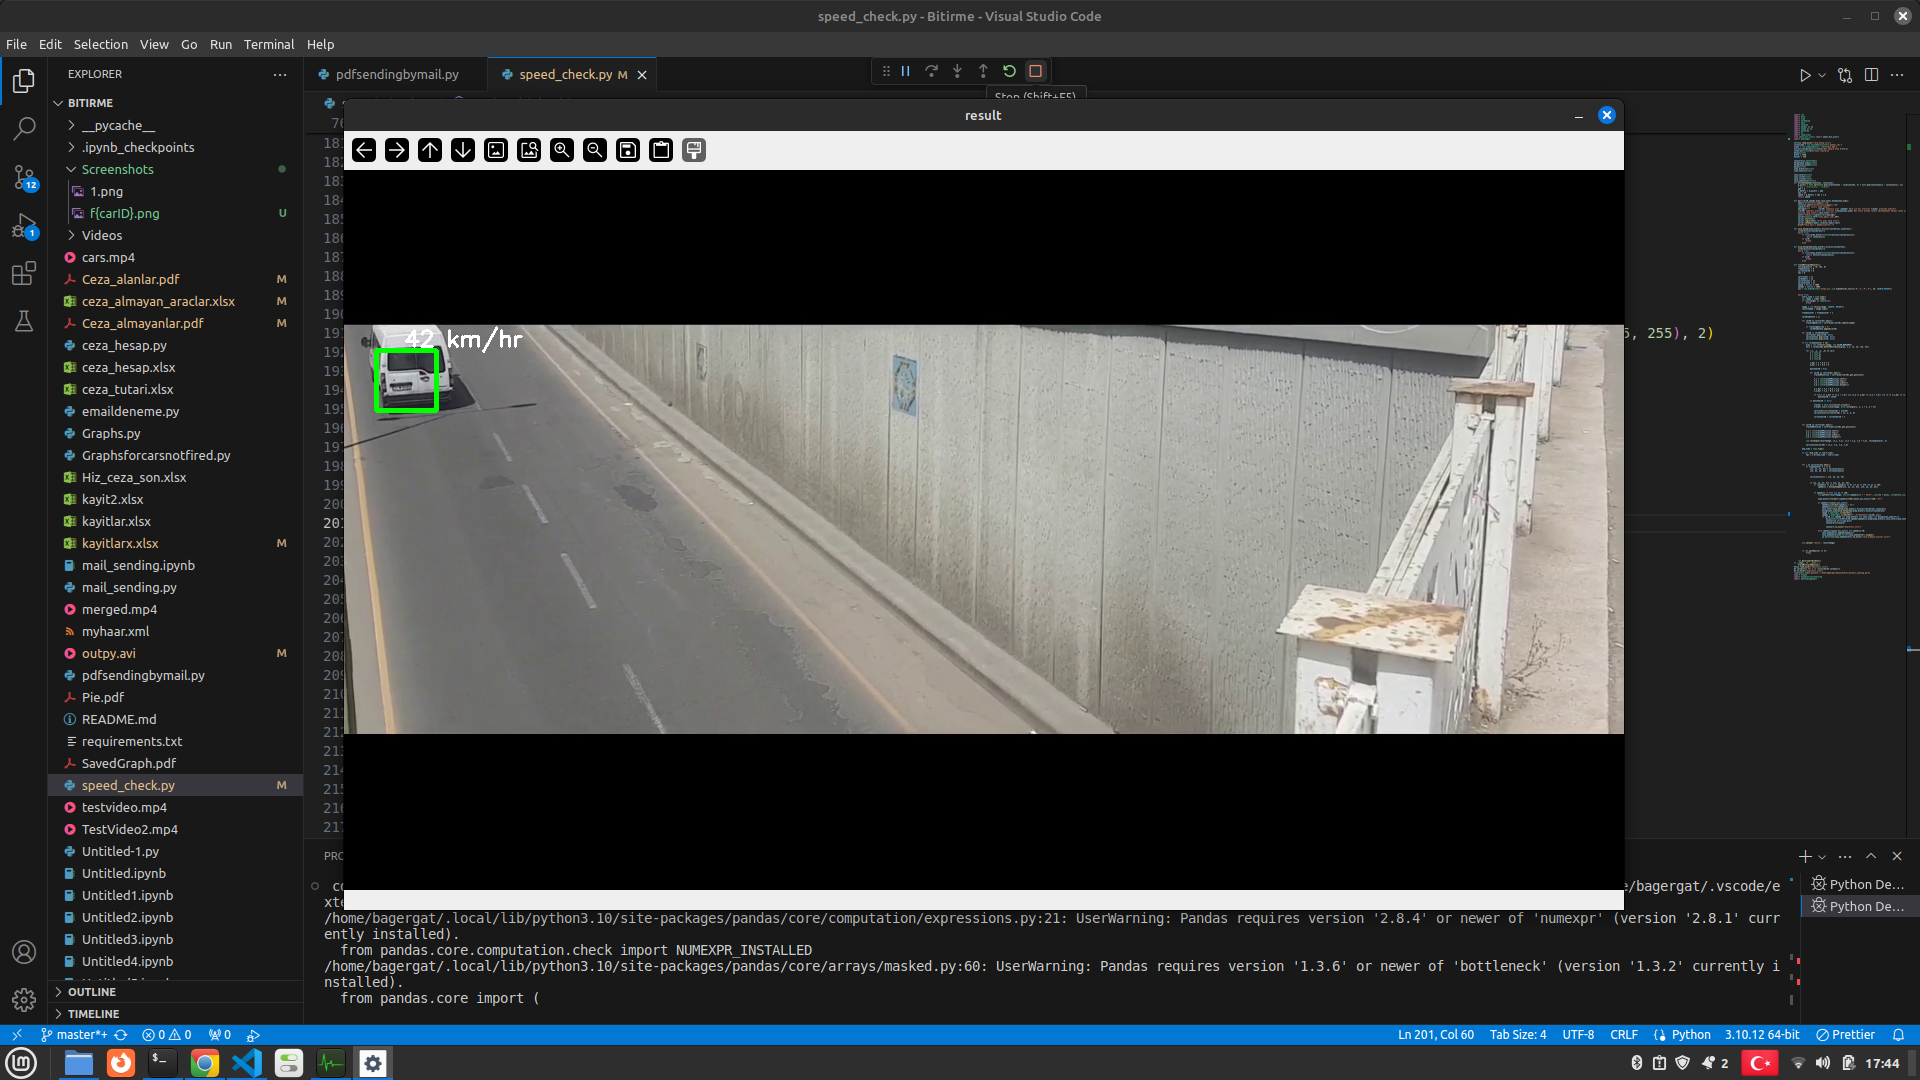
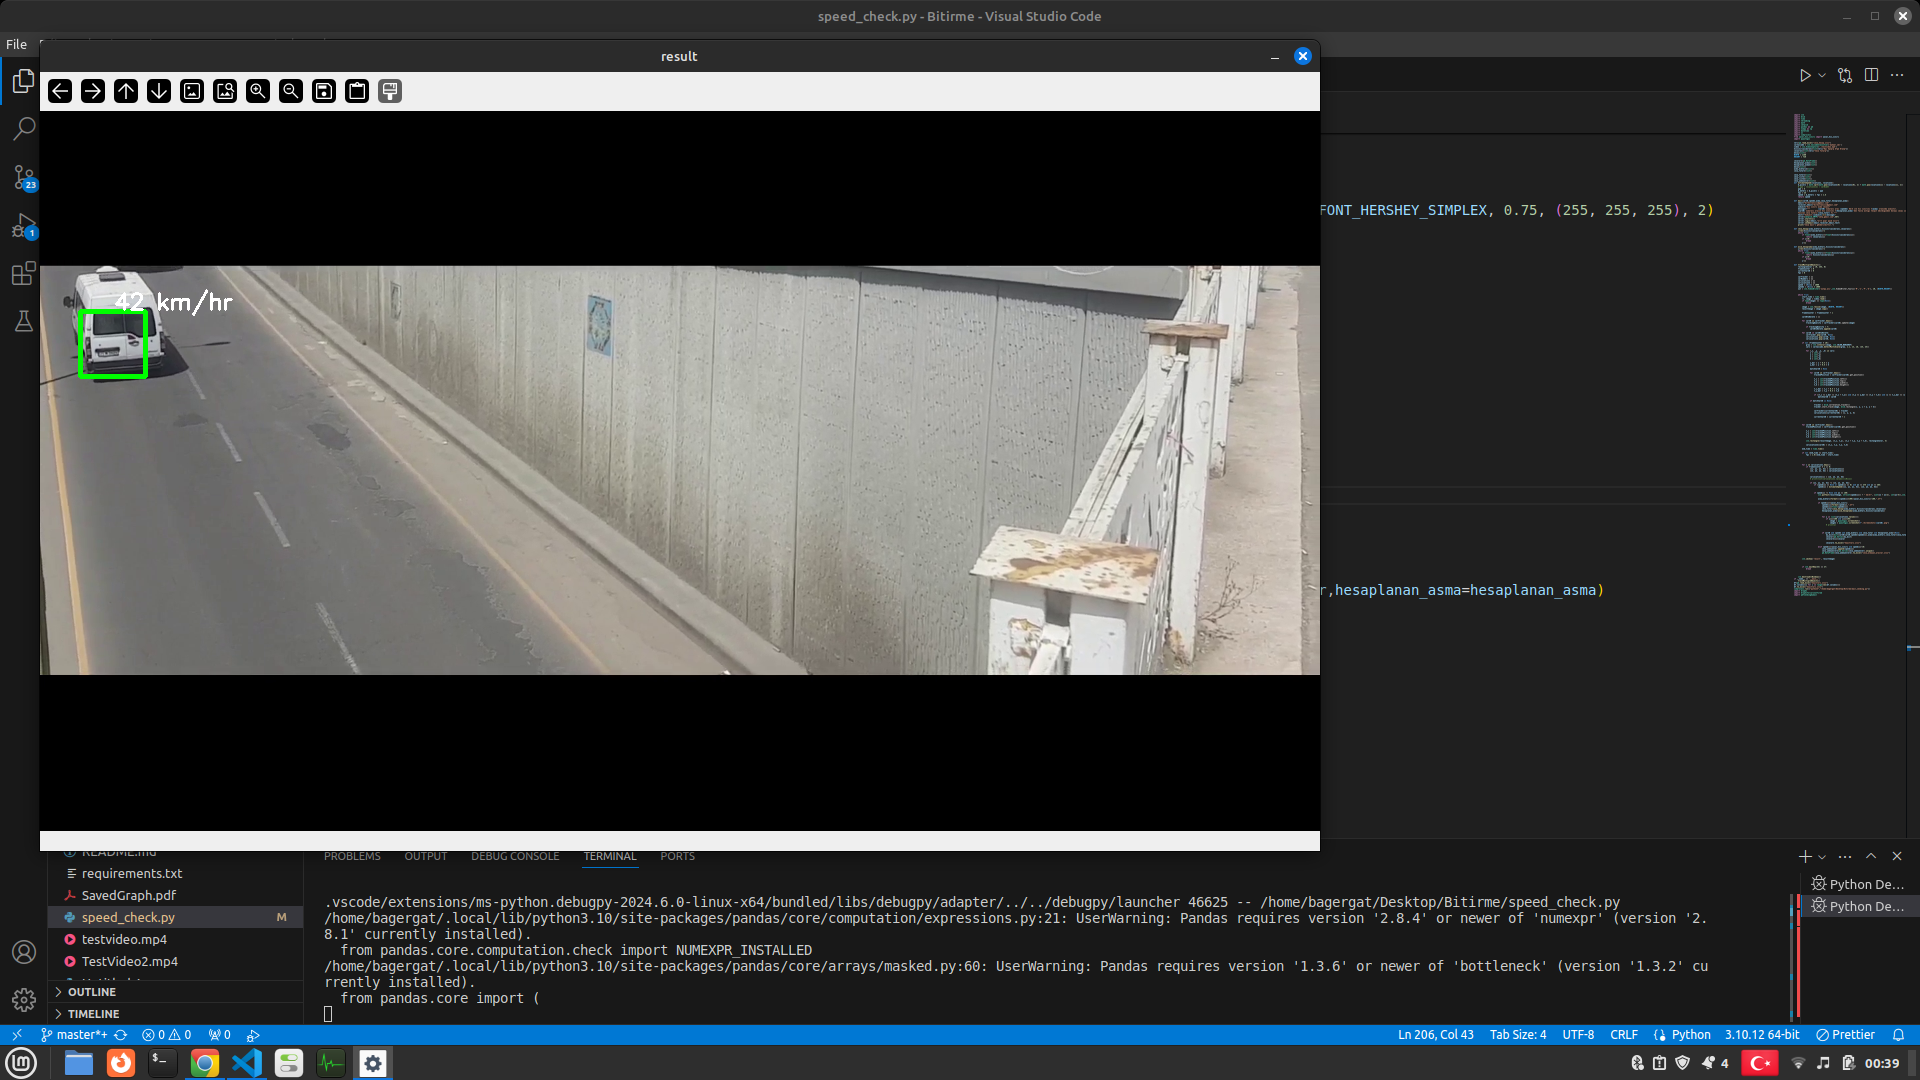
screenshots are imported to the mail function as well

diff --git a/mail_sending.py b/mail_sending.py
@@ -1,52 +1,76 @@
-# %%
-import pandas as pd 
-import numpy as np
+# import pandas as pd 
+# import numpy as np
+# import smtplib
+
+# veri=pd.read_excel("kayitlarx.xlsx")
+# veri.pop("Unnamed: 0")
+# veri.set_index(veri[0],inplace=True)
+# veri.pop(0)
+
+# def mail(carID,speed2,asma,ceza_tutar,hesaplanan_asma):
+#     email="birkullanicix@gmail.com"
+#     receiver_email="birkullanicix@gmail.com"
+#     subject="Hiz siniri asma cezasi"
+#     message=f"""        {carID} numarali arac {speed2} Km/h ile hiz sinirini %{asma} oraninda asmistir.
+# 	{carID} numarali aracin hiz sinirini %{hesaplanan_asma}'den fazla astigi tespit edildiginden dolayi cezai islem uygulanmistir.
+# 	Yazilan ceza tutari:{ceza_tutar} TL."""
+#     text=f"Subject:{subject}\n\n{message}"
+#     server=smtplib.SMTP("smtp.gmail.com",587)
+#     server.starttls()
+#     server.login(email,"wrrt pxqr pyib nzcs")
+#     server.sendmail(email,receiver_email,text)
+#     print("Ceza mail'i gönderilmiştir.")
+
+
+# for i in range(1,len(veri.columns)):
+#     carID=veri[i][0]
+#     speed2=veri[i][1]
+#     asma=veri[i][2]
+#     ceza_tutar=veri[i][3]
+#     hesaplanan_asma=veri[i][4]
+#     mail(carID,speed2,asma,ceza_tutar,hesaplanan_asma)
+
+
 import smtplib
-# %%
+from email.mime.multipart import MIMEMultipart
+from email.mime.text import MIMEText
+from email.mime.image import MIMEImage
+import pandas as pd 
+
 veri=pd.read_excel("kayitlarx.xlsx")
 veri.pop("Unnamed: 0")
-veri.set_index(veri[0],inplace=True)
+veri.set_index(veri[0], inplace=True)
 veri.pop(0)
-# veri.pop("Unnamed: 0")
-# veri.columns=["Degerler"]
-# veri=pd.Series(veri["Degerler"]).unique()
 
-# %%
-def mail(carID,speed2,asma,ceza_tutar,hesaplanan_asma):
-    email="birkullanicix@gmail.com"
-    receiver_email="birkullanicix@gmail.com"
-    subject="Hiz siniri asma cezasi"
-    message=f"""        {carID} numarali arac {speed2} Km/h ile hiz sinirini %{asma} oraninda asmistir.
-	{carID} numarali aracin hiz sinirini %{hesaplanan_asma}'den fazla astigi tespit edildiginden dolayi cezai islem uygulanmistir.
-	Yazilan ceza tutari:{ceza_tutar} TL."""
-    text=f"Subject:{subject}\n\n{message}"
-    server=smtplib.SMTP("smtp.gmail.com",587)
+def mail(carID, speed2, asma, ceza_tutar, hesaplanan_asma):
+    msg = MIMEMultipart()
+    email = "birkullanicix@gmail.com"
+    receiver_email = "birkullanicix@gmail.com"
+    subject = "Hiz siniri asma cezasi"
+    
+    message = f"""{carID} numarali arac {speed2} Km/h ile hiz sinirini %{asma} oraninda asmistir.
+    {carID} numarali aracin hiz sinirini %{hesaplanan_asma}'den fazla astigi tespit edildiginden dolayi cezai islem uygulanmistir.
+    Yazilan ceza tutari:{ceza_tutar} TL."""
+    
+    msg['Subject'] = subject
+    msg.attach(MIMEText(message, 'plain'))
+    
+    path = f"./Screenshots/{carID}.png"
+    with open(path, 'rb') as fp:
+        img = MIMEImage(fp.read())
+        img.add_header('Content-Disposition', 'attachment', filename=f"{carID}.png")
+        msg.attach(img)
+
+    server = smtplib.SMTP("smtp.gmail.com", 587)
     server.starttls()
-    server.login(email,"wrrt pxqr pyib nzcs")
-    server.sendmail(email,receiver_email,text)
+    server.login(email, "wrrt pxqr pyib nzcs")
+    server.sendmail(email, receiver_email, msg.as_string())
     print("Ceza mail'i gönderilmiştir.")
 
-
-# for i in range(len(veri.columns)):
-#     mail(i[0],i[1],i[2],i[3],i[4])
-
-for i in range(1,len(veri.columns)):
-    carID=veri[i][0]
-    speed2=veri[i][1]
-    asma=veri[i][2]
-    ceza_tutar=veri[i][3]
-    hesaplanan_asma=veri[i][4]
-    mail(carID,speed2,asma,ceza_tutar,hesaplanan_asma)
-
-
-# %%
-# for i in veri:
-#     vi=i.split()
-#     j.append(vi)
-# for i in j:
-#     i[0]=i[0].replace("[","")
-#     i[-1]=i[-1].replace("]","")
-#     mail(i[0],i[1],i[2],i[3],i[4])
-
-# for i in range(len(veri.columns)):
-    
+for i in range(1, len(veri.columns)):
+    carID = int(veri[i][0])
+    speed2 = veri[i][1]
+    asma = veri[i][2]
+    ceza_tutar = veri[i][3]
+    hesaplanan_asma = veri[i][4]
+    mail(carID, speed2, asma, ceza_tutar, hesaplanan_asma)

diff --git a/emaildeneme.py b/emaildeneme.py
@@ -1,16 +1,43 @@
-def emaildeneme(carID,speed,asma):
-    # carID=self.carID
-    # speed=self.speed
-    # asma=self.asma
-    import smtplib
+import smtplib
+from email.mime.multipart import MIMEMultipart
+from email.mime.text import MIMEText
+from email.mime.image import MIMEImage
+import pandas as pd 
 
-    email="birkullanicix@gmail.com"
-    receiver_email="birkullanicix@gmail.com"
-    subject="Hiz siniri asma cezasi"
-    message=f"{carID} numarali arac {speed} hizi ile hiz sinirini % {asma} oraninda asmistir."
-    text=f"Subject:{subject}\n\n{message}"
-    server=smtplib.SMTP("smtp.gmail.com",587)
+veri=pd.read_excel("kayitlarx.xlsx")
+veri.pop("Unnamed: 0")
+veri.set_index(veri[0], inplace=True)
+veri.pop(0)
+
+def mail(carID, speed2, asma, ceza_tutar, hesaplanan_asma):
+    msg = MIMEMultipart()
+    email = "birkullanicix@gmail.com"
+    receiver_email = "birkullanicix@gmail.com"
+    subject = "Hiz siniri asma cezasi"
+    
+    message = f"""{carID} numarali arac {speed2} Km/h ile hiz sinirini %{asma} oraninda asmistir.
+    {carID} numarali aracin hiz sinirini %{hesaplanan_asma}'den fazla astigi tespit edildiginden dolayi cezai islem uygulanmistir.
+    Yazilan ceza tutari:{ceza_tutar} TL."""
+    
+    msg['Subject'] = subject
+    msg.attach(MIMEText(message, 'plain'))
+    
+    path = f"./Screenshots/{carID}.png"
+    with open(path, 'rb') as fp:
+        img = MIMEImage(fp.read())
+        img.add_header('Content-Disposition', 'attachment', filename=f"{carID}.png")
+        msg.attach(img)
+
+    server = smtplib.SMTP("smtp.gmail.com", 587)
     server.starttls()
-    server.login(email,"wrrt pxqr pyib nzcs")
-    server.sendmail(email,receiver_email,text)
-    print("email has been sent")
+    server.login(email, "wrrt pxqr pyib nzcs")
+    server.sendmail(email, receiver_email, msg.as_string())
+    print("Ceza mail'i gönderilmiştir.")
+
+for i in range(1, len(veri.columns)):
+    carID = int(veri[i][0])
+    speed2 = veri[i][1]
+    asma = veri[i][2]
+    ceza_tutar = veri[i][3]
+    hesaplanan_asma = veri[i][4]
+    mail(carID, speed2, asma, ceza_tutar, hesaplanan_asma)

diff --git a/pdfsendingbymail.py b/pdfsendingbymail.py
@@ -3,49 +3,27 @@ from email.mime.multipart import MIMEMultipart
 from email.mime.text import MIMEText
 from email.mime.base import MIMEBase
 from email import encoders
-
-# Email information
 sender_email = "birkullanicix@gmail.com"
 receiver_email = "birkullanicix@gmail.com"
-subject = "PDF Attachment"
-body = "Ekte gerekli pdf'i bulabilirsiniz.\nİyi Günler"
-
-# Create a multipart message
+subject = "Ceza Alan Araçların Verileri"
+body = "Ekte cezalandırılan araçların verilerini içeren grafiğini pdf formatında bulabilirsiniz."
 message = MIMEMultipart()
 message["From"] = sender_email
 message["To"] = receiver_email
 message["Subject"] = subject
-
-# Attach body to the message
 message.attach(MIMEText(body, "plain"))
 
-# Path to the PDF file
 file_path = "./Ceza_alanlar.pdf"
-
-# Open the PDF file in binary mode
 with open(file_path, "rb") as attachment:
     part = MIMEBase("application", "octet-stream")
-    part.set_payload(attachment.read())
-
-# Encode file in ASCII characters to send by email    
+    part.set_payload(attachment.read()) 
 encoders.encode_base64(part)
-
-# Add header as key/value pair to attachment part
 part.add_header(
     "Content-Disposition",
     f"attachment; filename= {file_path}",
 )
-
-# Add attachment to message and convert message to string
 message.attach(part)
 text = message.as_string()
-
-# Send the email
-# with smtplib.SMTP("smtp.example.com", 587) as server:
-#     server.starttls()
-#     server.login("your_email@example.com", "your_email_password")
-#     server.sendmail(sender_email, receiver_email, text)
-
 server=smtplib.SMTP("smtp.gmail.com",587)
 server.starttls()
 server.login(sender_email,"wrrt pxqr pyib nzcs")

diff --git a/speed_check.py b/speed_check.py
@@ -180,7 +180,7 @@ def trackMultipleObjects():
 		
 
 				carLocation1[i] = [x2, y2, w2, h2]
-		
+				# print(list(carLocation1.values())[0][1])
 
 				if [x1, y1, w1, h1] != [x2, y2, w2, h2]:
 					if (speed[i] == None or speed[i] == 0) and y1 >= 275 and y1 <= 285:
@@ -197,8 +197,16 @@ def trackMultipleObjects():
 							speed2[i]=float(speed2[i])
 							ceza_tutar=ceza_hesap(asma_miktari,hizsiniriasimorani,cezaorani)
 							hesaplanan_asma=asim_hesaplama(asma_miktari,hizsiniriasimorani)
-							image = pyautogui.screenshot()
-							image1 = pyautogui.screenshot(f"./Screenshots/{carID}.png")
+
+
+							for j in list(carLocation1.values()):
+								if j[1]<200 and j[1]>194:
+									image = pyautogui.screenshot()
+									image1 = pyautogui.screenshot(f"./Screenshots/{carID}.png")
+								# print(j)
+
+
+							
 							if carID and speed2 and asma_miktari and ceza_tutar and hesaplanan_asma!=None:
 								my_dict=dict(carID=carID,speed2=speed2[i],asma=asma_miktari,ceza_tutar=ceza_tutar,hesaplanan_asma=hesaplanan_asma)
 								cezalar=pd.Series(my_dict)
